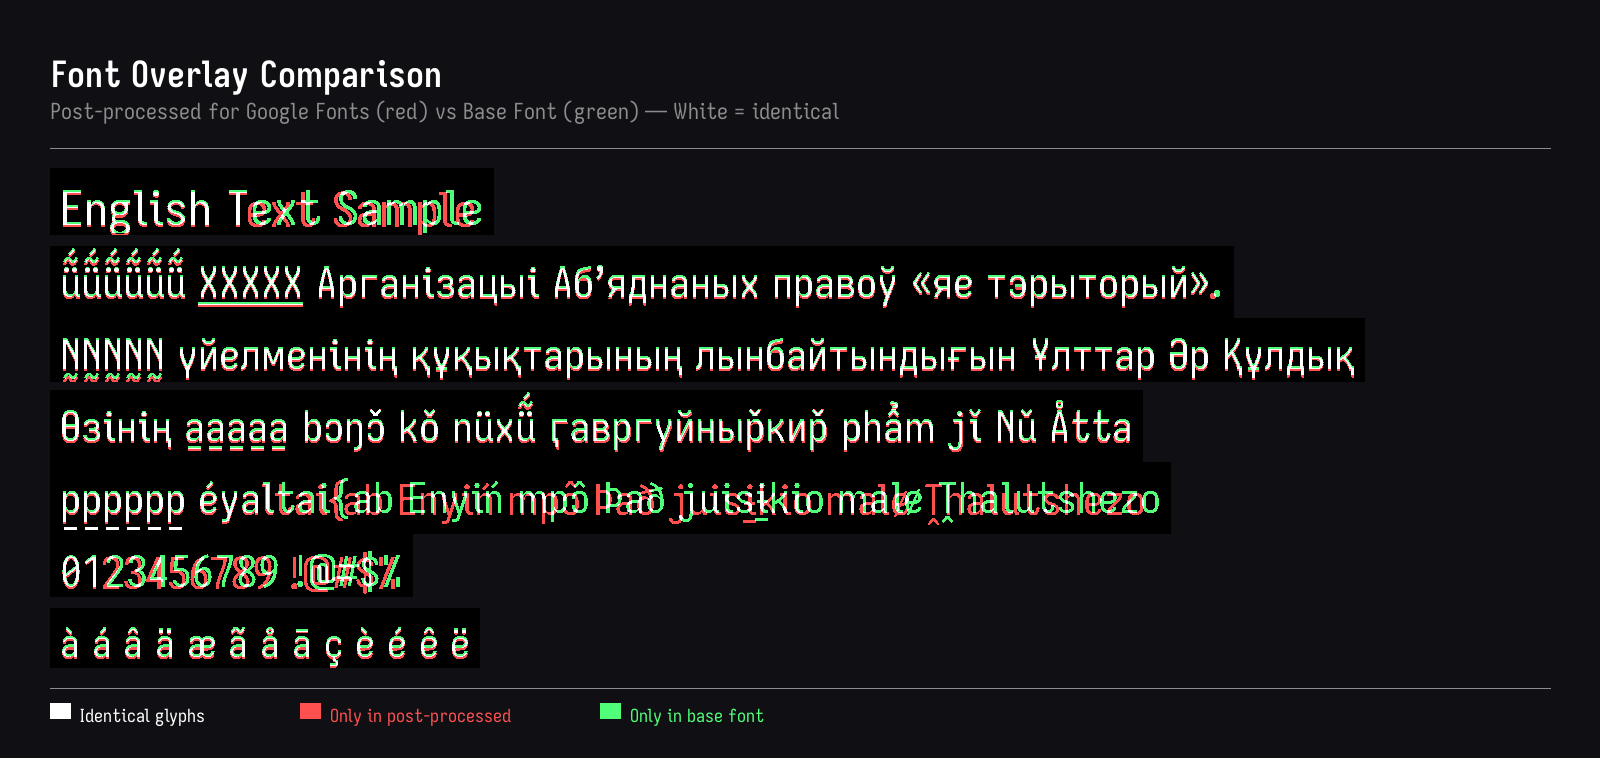
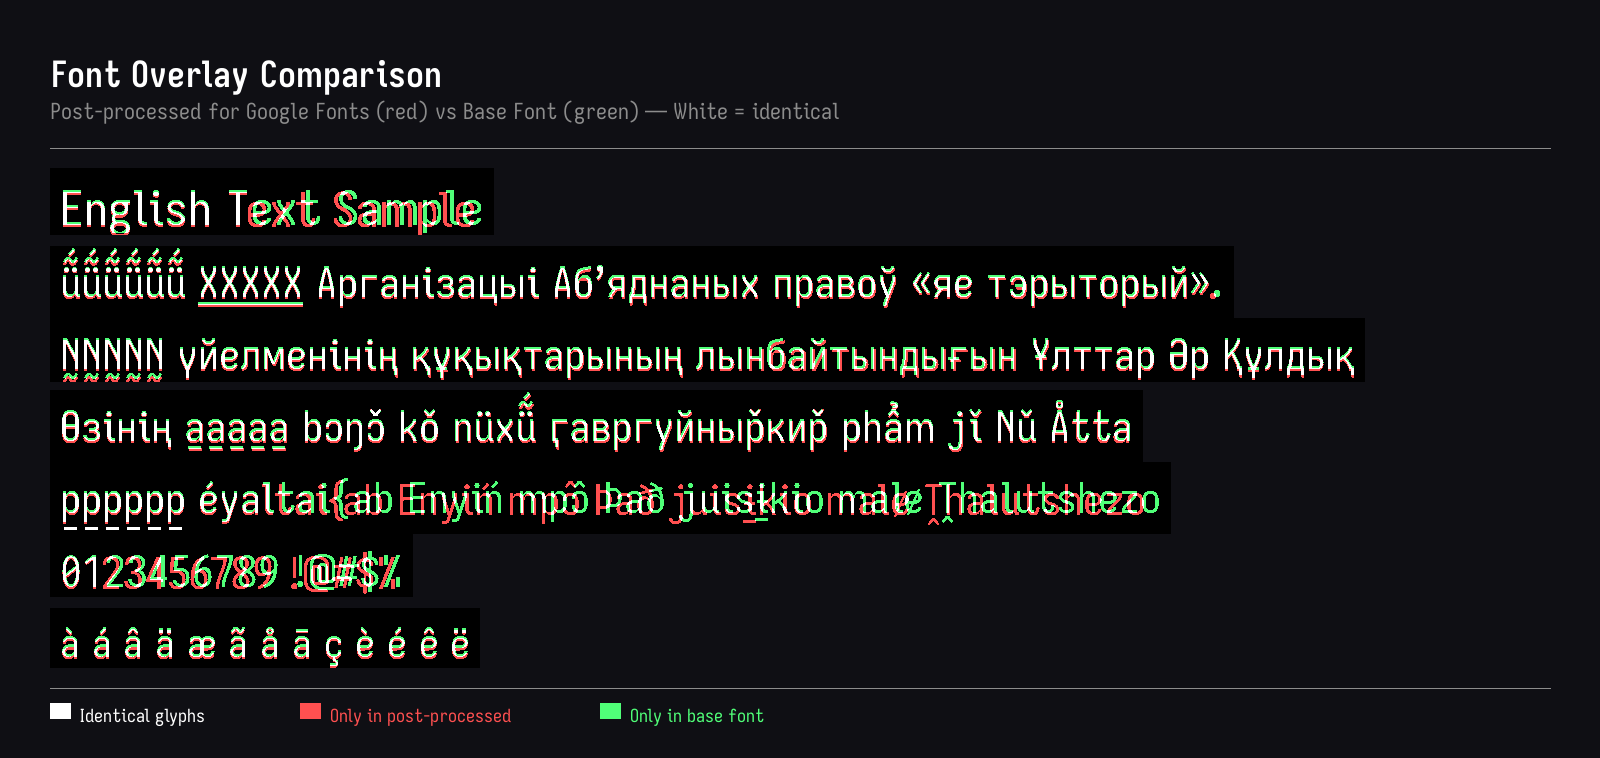
Add quotes to thin punctuation suppression list and regen images
Suppress positive kerns around quote characters (' " ' ' " " etc.)
in addition to existing thin punctuation marks.

diff --git a/scripts/autokern.py b/scripts/autokern.py
@@ -90,7 +90,7 @@ _KERN_RANGES: List[Tuple[int, int]] = [
 # Thin punctuation: suppress positive (loosening) kerns when either side
 # is one of these narrow marks.  Negative (tightening) kerns still apply.
 _THIN_PUNCT: set = {
-    ord(c) for c in ".,:;!¡·…‥"
+    ord(c) for c in ".,:;!¡·…‥'\"''""\u201A\u201B\u201E\u201F`"
 }
 
 
